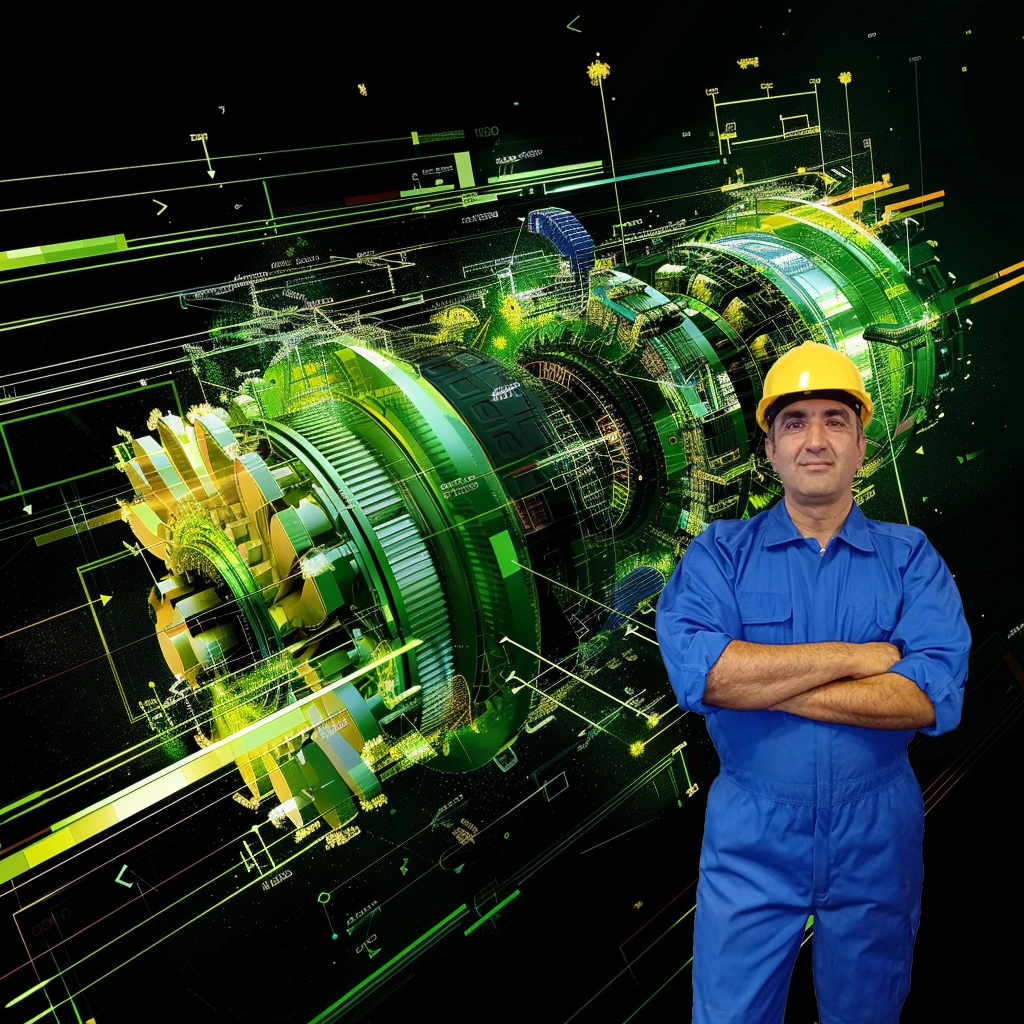
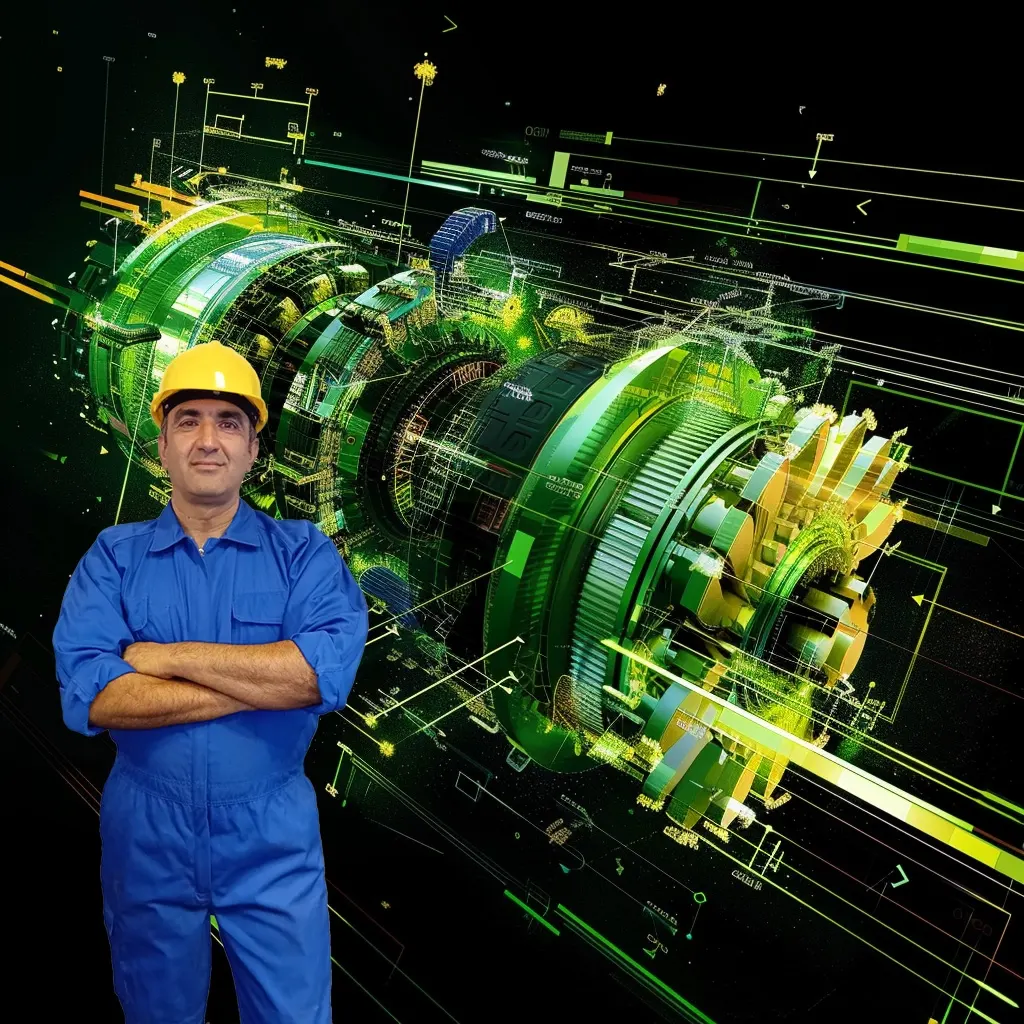
all changes till mahsoolat

diff --git a/per/en_css/enLaptopMonitorRes.css b/per/en_css/enLaptopMonitorRes.css
@@ -189,7 +189,7 @@ z-index: 20;
     grid-column: 22/span 13;
 
     grid-row:2 !important;
-    text-align: left;
+    text-align: right;
     
 }
 .aboutDetails{
@@ -208,11 +208,12 @@ z-index: 20;
     display: flex;
     flex-direction: column;
     gap:0px;
+    justify-items: right;
 
 }
 .aboutExperties,.aboutAccurate,.aboutQuality{
-    justify-content: left;
-    text-align: left;
+    justify-content: right;
+    text-align: right;
 
 }
 .aboutEmergency{
@@ -221,7 +222,7 @@ z-index: 20;
     /* align-self: left !important; */
     display: flex;
     justify-content: left !important;
-    text-align: left;
+    text-align: right;
     gap:0px;
 }
 
@@ -769,8 +770,11 @@ height:299px;
     }
     /* hero */
     .bgImageToAllHero{
-        background-position: 82% 33.5%!important;
-        background-size: 134%!important;
+        /* background-position: 82% 33.5%!important;
+        background-size: 134%!important; */
+
+        background-position: 19% 48.5%!important;
+        background-size: 110%!important;
     }
 
     .welcome{
@@ -878,7 +882,7 @@ height:299px;
     }
     .aboutDetails p,.productDetails.visible,.heroDetails{
         font-size: 160%;
-        text-align: justify;
+        text-align: right;
     }
     /*  */
 
@@ -890,7 +894,7 @@ height:299px;
 
     .socialMedia img{
         width: 1.2vw;
-        transform: translate(-79%, 1.5vh);
+        transform: translate(450%, 1.5vh);
         top:30px
     }
     .lang{
@@ -909,21 +913,21 @@ height:299px;
         background-size: 100%;
     }
     .title {
-        margin-top: -11%;
+        margin-top: -9%;
     }
     .menu{
 
         transform: translate(0%, -5.5%)!important;
     }
     .menu ul{
-        transform: translate(9%, -2%);
+        transform: translate(33%, -2%);
         height: 280px;
 
     }
     /* hero */
     .bgImageToAllHero{
-        background-position: 82% 33.5%!important;
-        background-size: 134%!important;
+        background-position: 10% 47.6%!important;
+        background-size: 120%!important;
     }
     .slogan{
         grid-row:4;
@@ -931,26 +935,26 @@ height:299px;
     /* about */
     .aboutImage{
         height: 70vh !important;
-        grid-column: 4 / span 15;
+        grid-column: 24 / span 15;
         width: 37vw;
     }
     .aboutCompany{
-        grid-column: 23 / span 13;
+        grid-column: 14 / span 13;
     }
     .aboutDash{
-        transform: translateY(-24px)!important;
+        transform: translate(4px,-10px);
     }
     .aboutSlogan{
-        grid-column: 23 / span 15;
+        grid-column: 7 / span 12;
     }
     .aboutDetails{
-         grid-column: 23 / span 15;
+         grid-column: 4 / span 15;
         }
     .aboutPros{
-        grid-column: 23 / span 15;
+        grid-column: 4 / span 15;
     }
         .aboutEmergency{
-            grid-column: 32 / span 7; 
+            grid-column: 4 / span 7; 
         }
 
     /* portfolio */
@@ -1017,7 +1021,7 @@ font-size: 1.3vw;
         font-size: 1.5vw!important;
     }
     .yearsWork, .successRate, .satisfiedClients {
-        font-size: 100%;
+        font-size: 170%;
     }
     .aboutTitle,.productTitle.visible{
         font-size: 2.5vw;
@@ -1025,7 +1029,7 @@ font-size: 1.3vw;
     }
     .aboutDetails p,.productDetails.visible,.heroDetails{
         font-size: 160%;
-        text-align: justify;
+        text-align: right;
     }
     /*  */
 

diff --git a/per/index.html b/per/index.html
@@ -444,18 +444,20 @@ document.addEventListener("scroll", function () {
     </div>
     <div class="aboutPros">
         <div class="aboutExperties">
-
+            <span>
+                تکنسین های خبره</span>
                     <img src="../icon/chack mark sign.svg"  alt="Check davudtech" class="aboutIcon"> </i>
-                    <span>
-                        تکنسین های خبره</span>
+                    
         </div>
         <div class="aboutAccurate">
-            <img src="../icon/chack mark sign.svg"  alt="Check davudtech" class="aboutIcon">
             <span>تشخیص و تعمیر دقیق</span>
+
+            <img src="../icon/chack mark sign.svg"  alt="Check davudtech" class="aboutIcon">
         </div>
         <div class="aboutQuality">
-            <img src="../icon/chack mark sign.svg"  alt="Check davudtech" class="aboutIcon">
             <span>کار با کیفیت</span>
+
+            <img src="../icon/chack mark sign.svg"  alt="Check davudtech" class="aboutIcon">
         </div>        
                 
                 
@@ -477,8 +479,8 @@ document.addEventListener("scroll", function () {
     <div class="secondDivider"></div>
     <div class="portfolioAllIntro">
         <div class="portfolioIntro">
-            <span class="portolioDash">___</span>
             <span class="portfolioText">نمونه کارها</span>
+            <span class="portolioDash">___</span>
         </div>
         <span class="portfolioSlogan">ما به کارهای موفق اخیر
             خود افتخار می کنیم</div>

diff --git a/per/en_css/main.css b/per/en_css/main.css
@@ -64,7 +64,7 @@ html{
     }
 
     .welcome{
-        grid-column: 4/span 20 ;
+        grid-column: 28/span 20 ;
         grid-row:3;
         display: flex;
         flex-direction: row;
@@ -81,7 +81,7 @@ html{
     .dash{
 
         color: rgb(255, 215, 0);
-        transform: translateY(-50%);
+        transform: translate(30%,-50%);
         font-size: 2.5vw;
         /* background-color: aqua; */
         z-index: 2;
@@ -99,8 +99,9 @@ html{
     .slogan {
         position: relative;
         margin-top: 3.5%;
-        grid-column: 4/span 20 ;
+        grid-column: 18/span 20 ;
         grid-row:4/span 10;
+        text-align:right;
 
         font-family: 'sloganFont', sans-serif;
         color: white;
@@ -124,7 +125,7 @@ html{
     }
     .heroDetails{
         margin-top: 3.5%;
-        grid-column: 4/span 20 ;
+        grid-column: 18/span 20 ;
         grid-row:7/ span 3;
         font-family: 'hero_details_font', sans-serif;
         color:white;
@@ -574,21 +575,22 @@ html{
 
  }
  .portfolioIntro span:nth-child(1){
-    transform: translateY(-10px);
-
+    font-family: 'sloganFont',sans-serif;
+    font-size: 1.4vw;
+    z-index: 1;
     /* margin-top: -14px; */
-    font-family: dashFont;
-    color:black;
-    font-size: 30px;
+
     /* gap:2px; */
 
 
  }
  .portfolioIntro span:nth-child(2){
-    font-family: 'sloganFont',sans-serif;
+    transform: translateY(-10px);
+    font-family: dashFont;
+    color:black;
+    font-size: 30px;
     /* margin-left:2%; */
-    font-size: 1.4vw;
-    z-index: 1;
+
 
 
  }

diff --git a/per/en_css/header.css b/per/en_css/header.css
@@ -31,7 +31,7 @@
 /* ------social Media---------- */
 .socialMedia{
     position:relative;
-    grid-column: 76/ span 25;
+    grid-column: 77/ span 25;
     grid-row: 1;
 
     transform: translate(0%, -3%);
@@ -160,9 +160,13 @@
 
         /* transform: translateX(-45%); */
         font-family: 'normal_font', sans-serif;
-        color: black;
+        /* color: black !important; */
         font-size: .7vw;  
         /* background-color: brown; */
+
+    }
+    .lang_text a {
+        color: black ;
 
     }
 

diff --git a/per/en_css/enGlobalCommand.css b/per/en_css/enGlobalCommand.css
@@ -1,5 +1,5 @@
 a{
-    /* color:white; */
+    color:white;
     text-decoration: none;
 }
 
